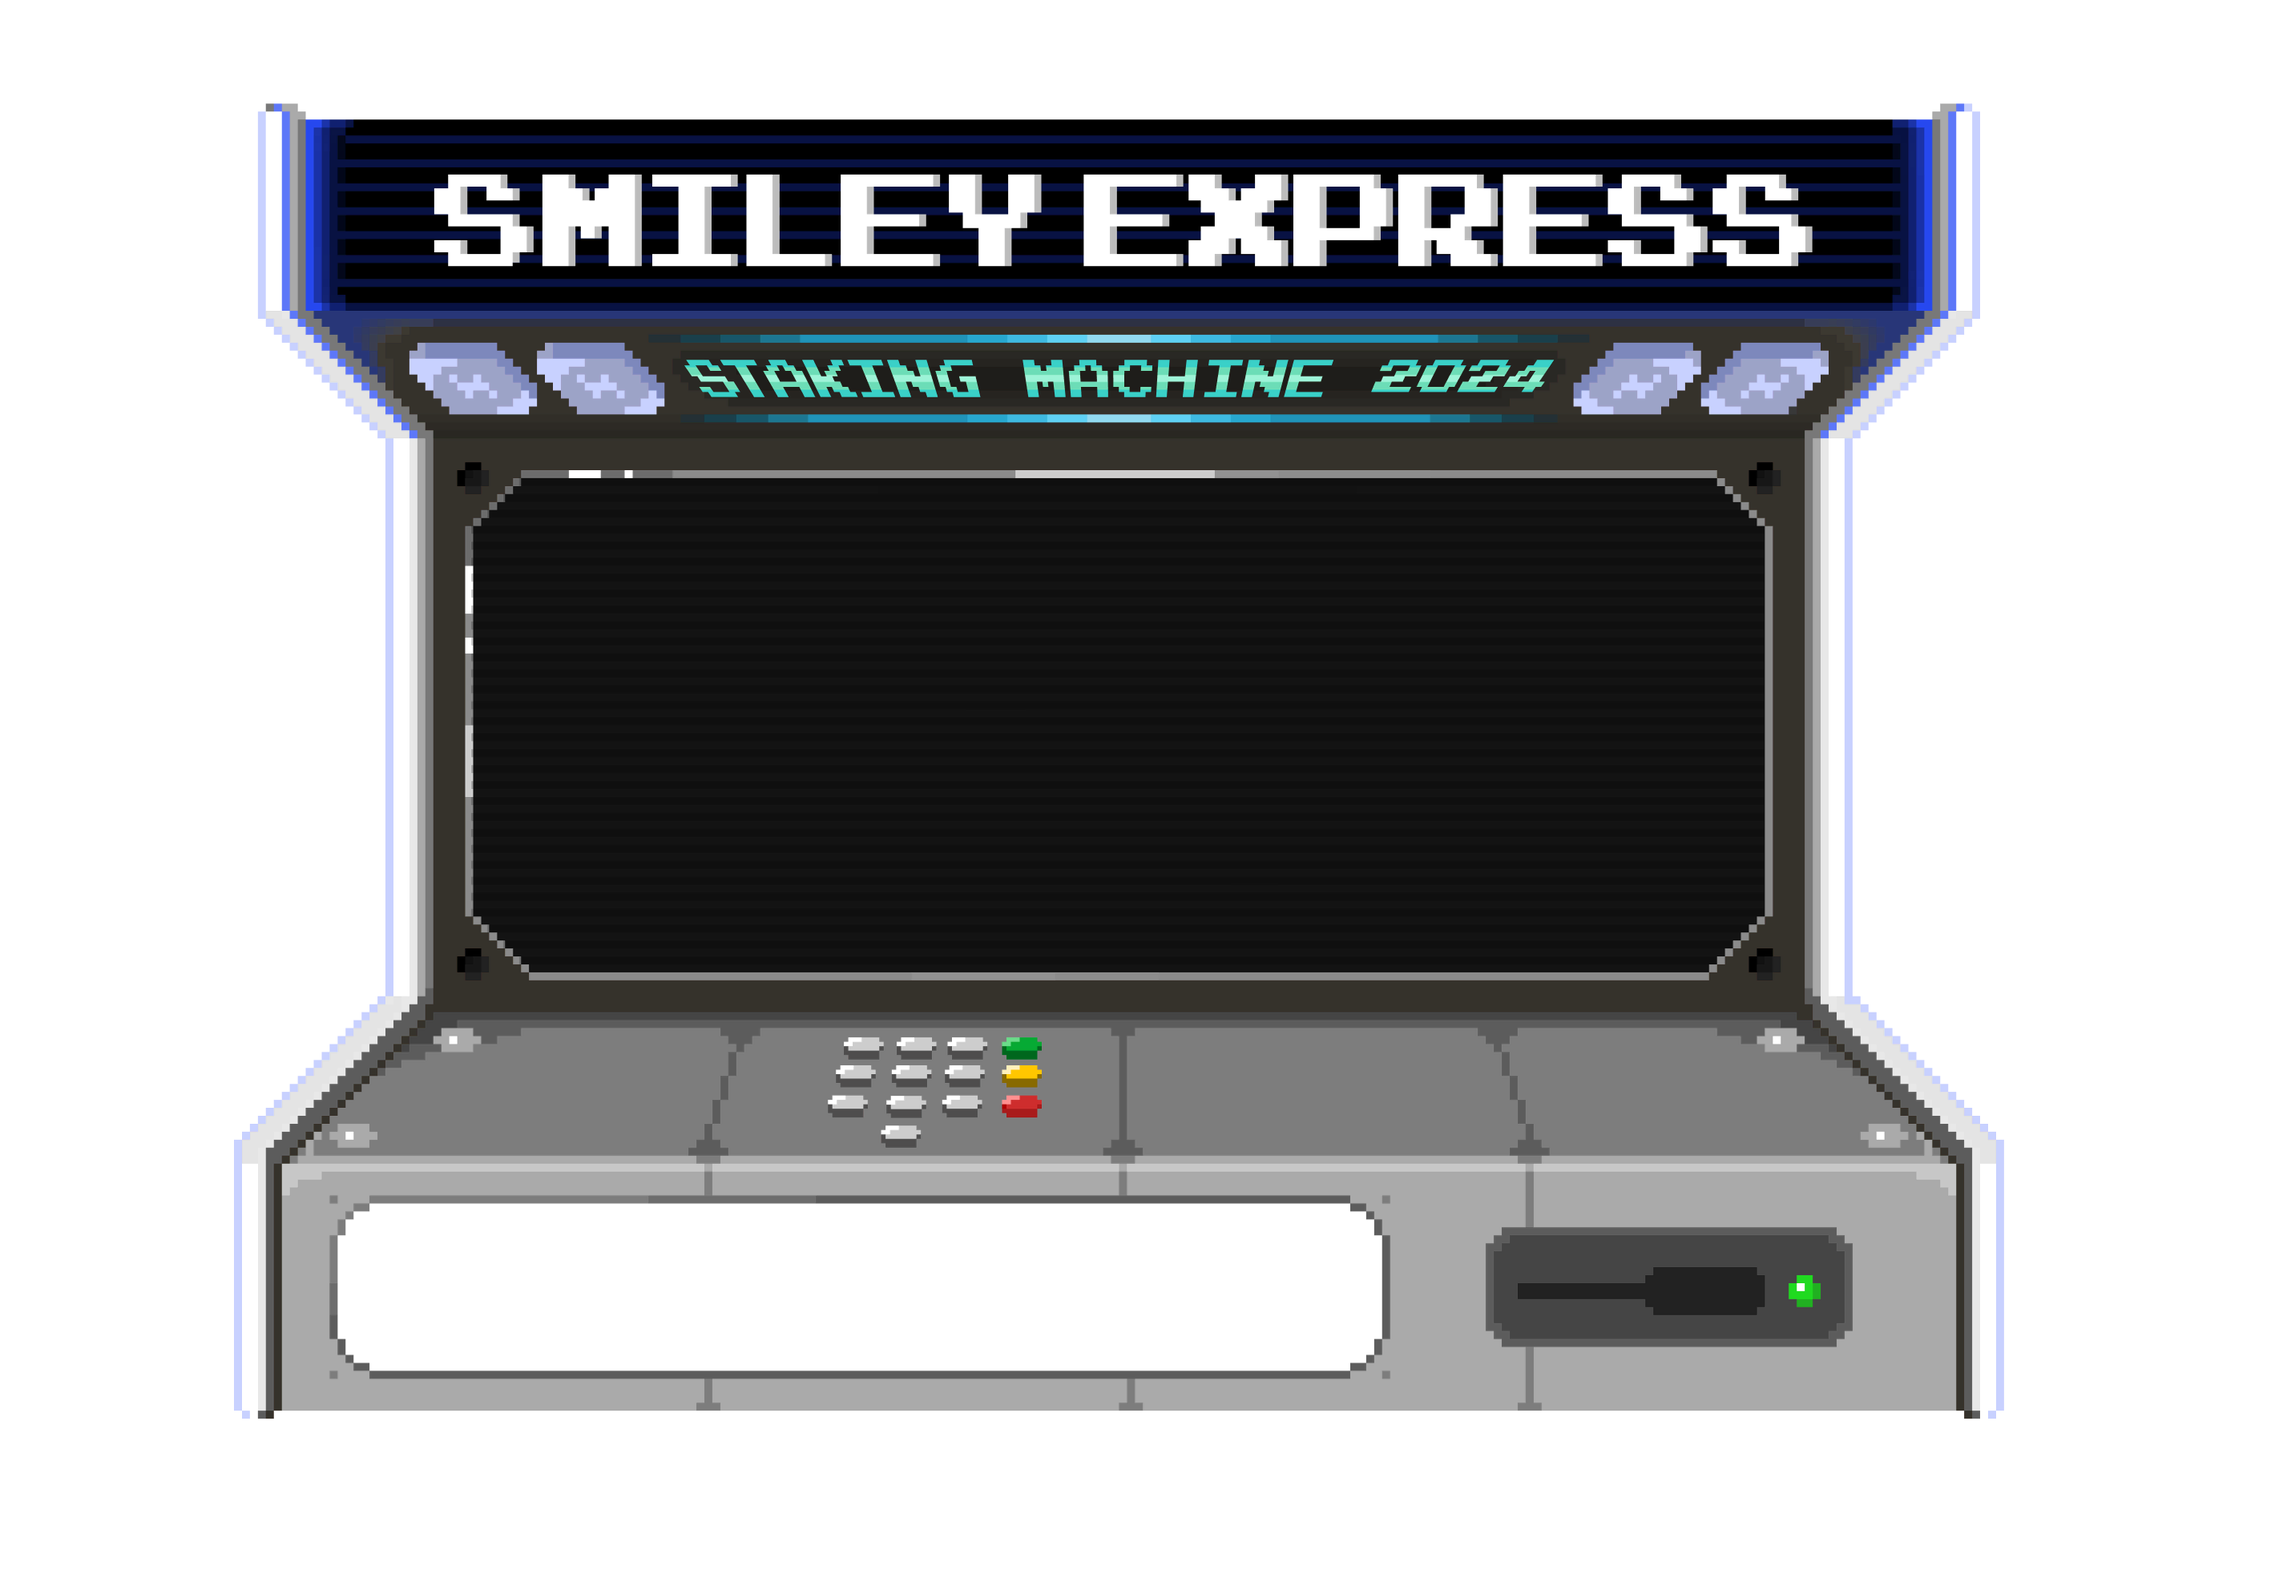
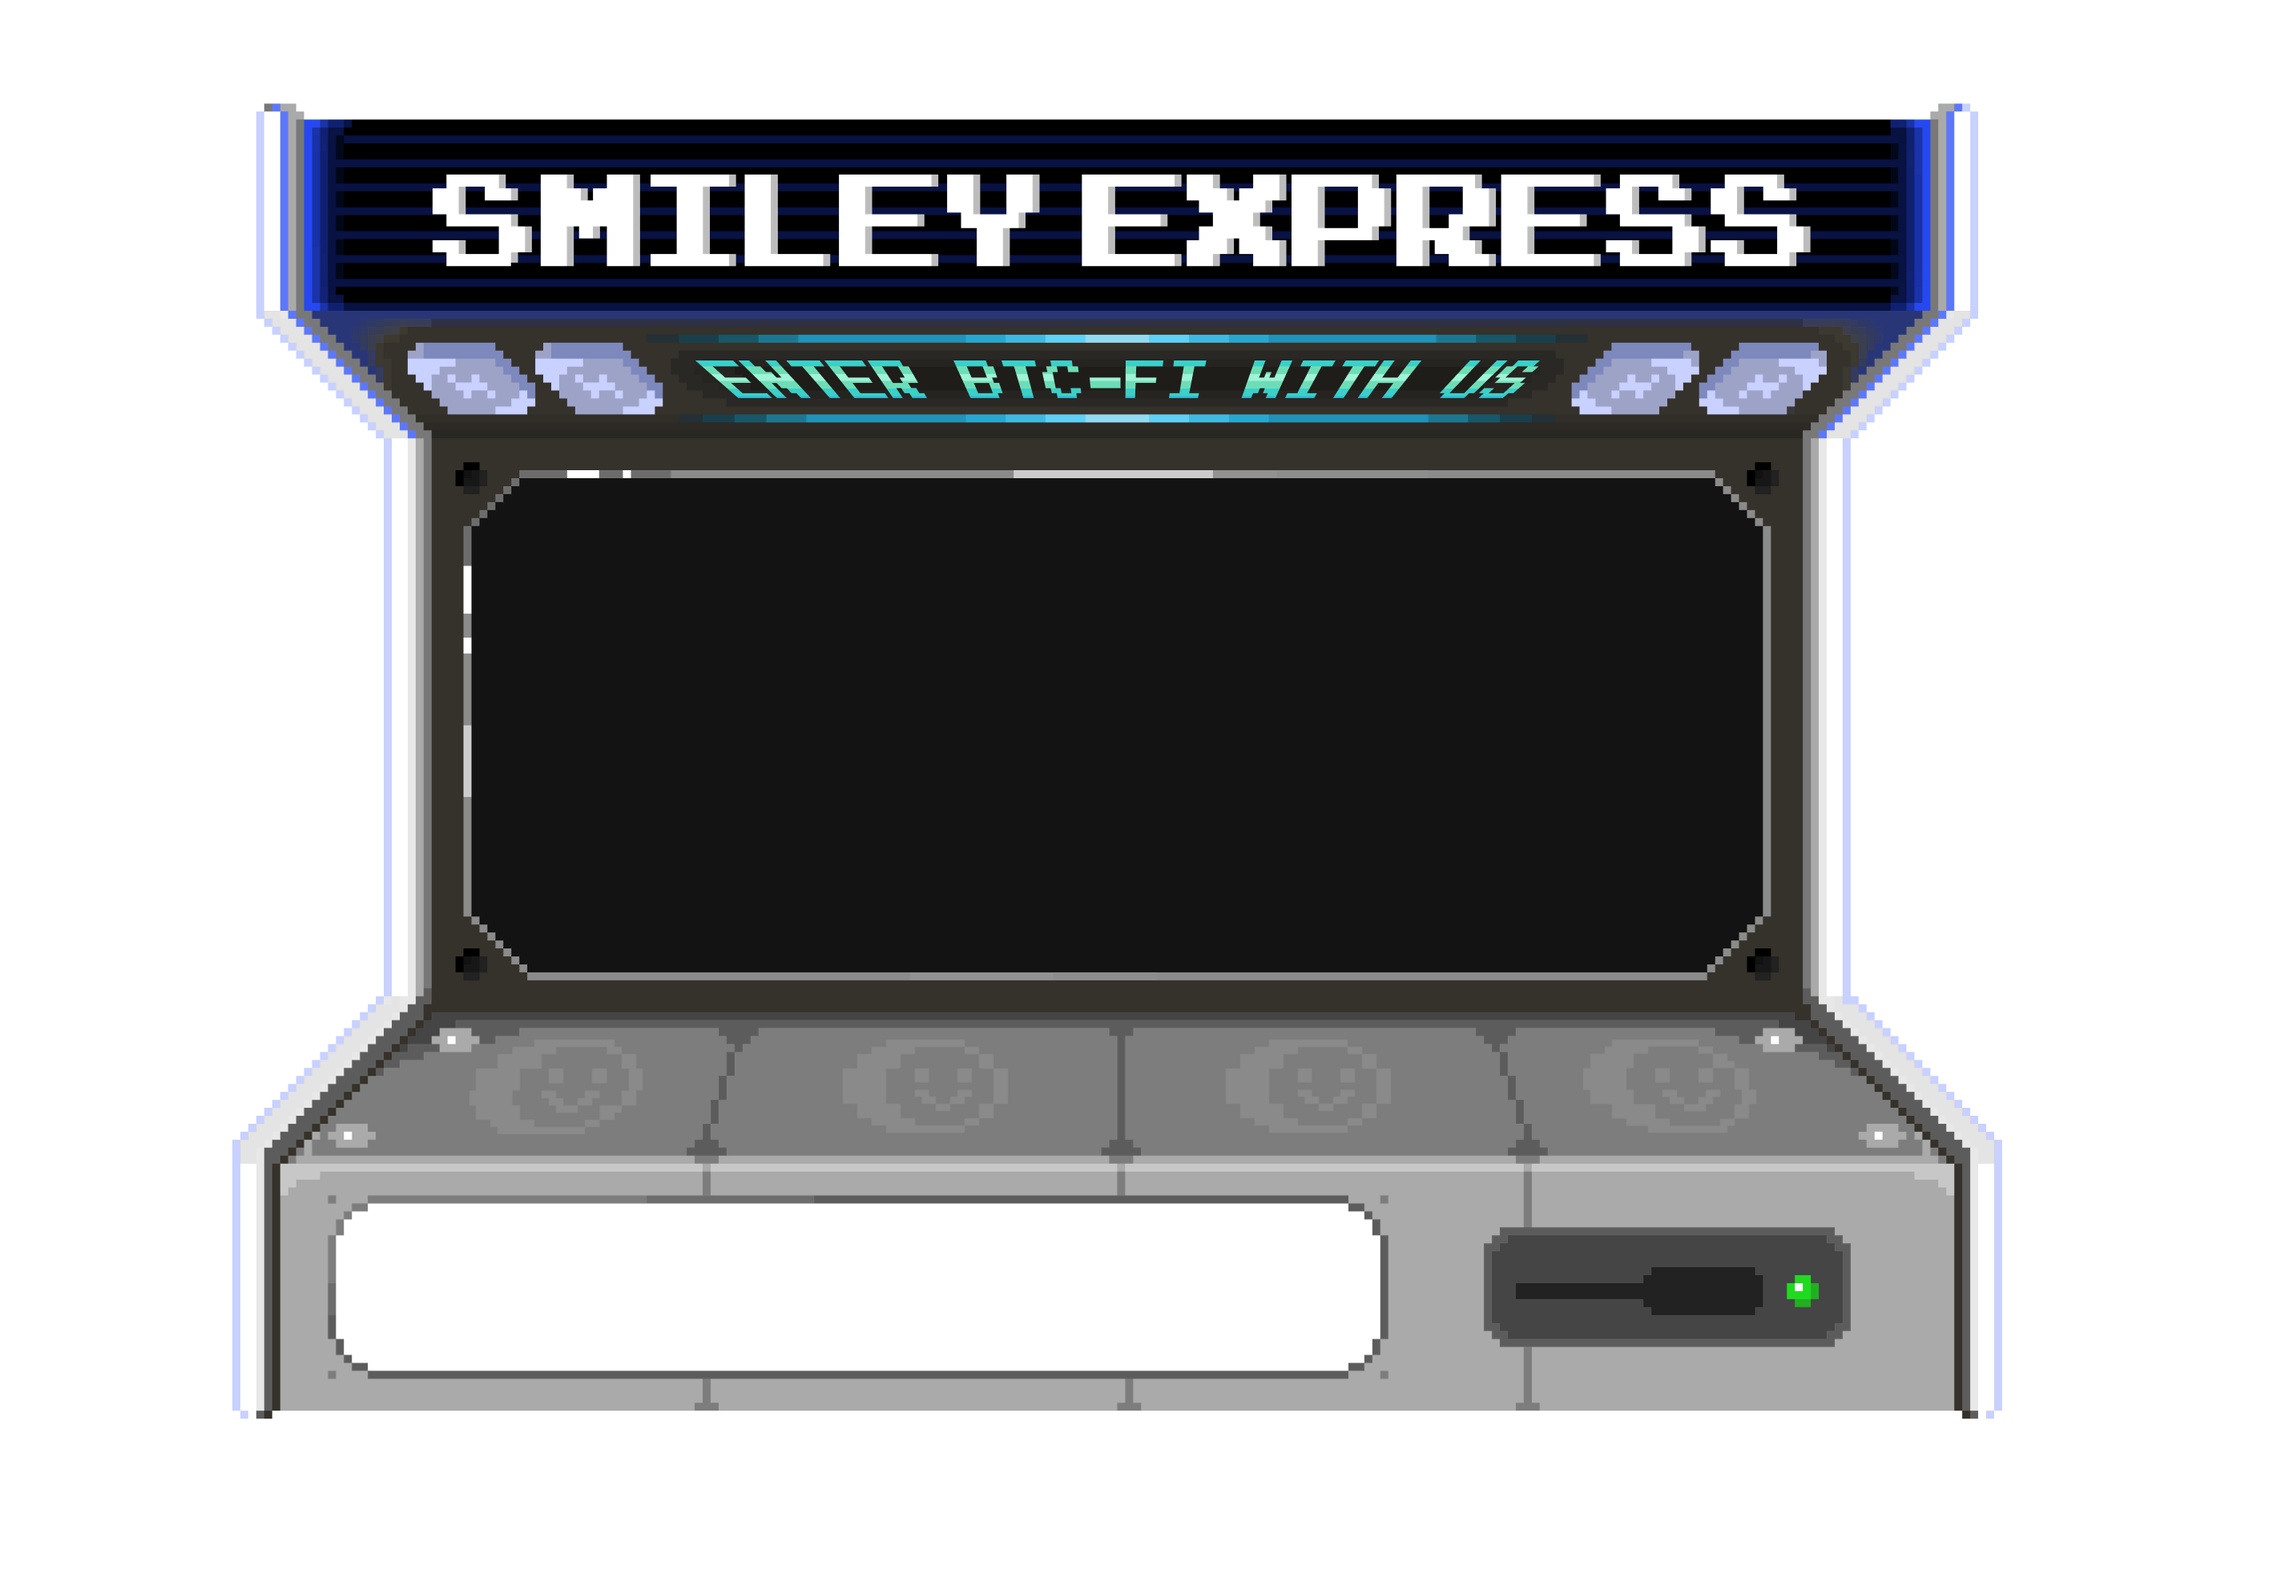
update mobile

diff --git a/src/components/StakingMachine/SmileyExpress.tsx b/src/components/StakingMachine/SmileyExpress.tsx
@@ -1,14 +1,90 @@
-import { SmileyIcon } from '@/assets/icons'
 import { Image } from '@/components/Image'
+import { useMediaQuery } from '@/hooks/useMediaQuery'
+import { Divider } from '@/pages/Main/StakingPage'
+import { cn } from '@/utils/cn'
 import { getIllustrationUrl } from '@/utils/getAssetsUrl'
 
 import { BuyButton } from './BuyButton'
 
+const BuySmile: React.FC = () => {
+  const { isMobile } = useMediaQuery()
+  return (
+    <div
+      className={cn(
+        isMobile
+          ? 'flex flex-wrap gap-2 w-full items-center justify-center'
+          : 'flex gap-1'
+      )}>
+      <BuyButton>
+        <Image
+          src={getIllustrationUrl('bybit-icon', 'webp')}
+          className="h-[31px] w-[83px]"
+        />
+      </BuyButton>
+      <BuyButton>
+        <Image
+          src={getIllustrationUrl('gate-io-icon', 'webp')}
+          className="h-[26px] w-[93px]"
+        />
+      </BuyButton>
+      <BuyButton>
+        <Image
+          src={getIllustrationUrl('mexc-icon', 'webp')}
+          className="h-[17px] w-[91px]"
+        />
+      </BuyButton>
+      <BuyButton>
+        <Image
+          src={getIllustrationUrl('bitget-icon', 'webp')}
+          className="h-[26px] w-[85px]"
+        />
+      </BuyButton>
+      <BuyButton>
+        <Image
+          src={getIllustrationUrl('kucoin-icon', 'webp')}
+          className="h-[31px] w-[112px]"
+        />
+      </BuyButton>
+    </div>
+  )
+}
+
 export const SmileyExpress: React.FC = () => {
+  const { isMobile } = useMediaQuery()
+  if (isMobile)
+    return (
+      <div className="relative flex flex-col items-center gap-y-3 pt-8 font-psm">
+        <div className="flex items-center gap-3">
+          <Image
+            src={getIllustrationUrl('red-lines', 'webp')}
+            className="h-[9px] w-[55px]"
+          />
+          <div className="text-xs text-[#FF64AE]">
+            THE No.1 Stablecoin PROTOCOL in BTC
+          </div>
+          <Image
+            src={getIllustrationUrl('red-lines', 'webp')}
+            className="h-[9px] w-[55px]"
+          />
+        </div>
+        <div className="flex items-center gap-4">
+          <Image
+            src={getIllustrationUrl('white-smile-icon', 'webp')}
+            className="h-[56px] w-[52px]"
+          />
+          <div className="font-smb2 text-[40px] leading-none text-white [text-shadow:_6px_0px_0px_#5B5B5B]">
+            $SMILE
+          </div>
+        </div>
+        <Divider title="buy smile from" className="relative my-0"></Divider>
+        {/* <div>buy smile from</div> */}
+        <BuySmile></BuySmile>
+      </div>
+    )
   return (
     <div className="absolute left-[300px] top-[300px] z-10">
-      <div className="relative flex w-[800px] flex-col items-center gap-y-2 pt-8 font-psm">
-        <div className="flex items-center gap-3 ">
+      <div className="relative flex w-[800px] flex-col items-center gap-y-3 pt-8 font-psm">
+        <div className="flex items-center gap-3">
           <Image
             src={getIllustrationUrl('red-lines', 'webp')}
             className="h-[20px] w-[130px]"
@@ -22,8 +98,11 @@ export const SmileyExpress: React.FC = () => {
           />
         </div>
         <div className="flex items-center gap-3">
-          <SmileyIcon className="h-[93px] w-[86px] text-white" />
-          <div className="font-smb2 text-[80px] text-white [text-shadow:_6px_0px_0px_#5B5B5B]">
+          <Image
+            src={getIllustrationUrl('white-smile-icon', 'webp')}
+            className="h-[93px] w-[86px]"
+          />
+          <div className="font-smb2 text-[80px] leading-[110px] text-white [text-shadow:_6px_0px_0px_#5B5B5B]">
             $SMILE
           </div>
         </div>
@@ -38,38 +117,7 @@ export const SmileyExpress: React.FC = () => {
             className="h-[1px] w-[306px]"
           />
         </div>
-        <div className="flex gap-1">
-          <BuyButton>
-            <Image
-              src={getIllustrationUrl('bybit-icon', 'webp')}
-              className="h-[31px] w-[83px]"
-            />
-          </BuyButton>
-          <BuyButton>
-            <Image
-              src={getIllustrationUrl('gate-io-icon', 'webp')}
-              className="h-[26px] w-[93px]"
-            />
-          </BuyButton>
-          <BuyButton>
-            <Image
-              src={getIllustrationUrl('mexc-icon', 'webp')}
-              className="h-[17px] w-[91px]"
-            />
-          </BuyButton>
-          <BuyButton>
-            <Image
-              src={getIllustrationUrl('bitget-icon', 'webp')}
-              className="h-[26px] w-[85px]"
-            />
-          </BuyButton>
-          <BuyButton>
-            <Image
-              src={getIllustrationUrl('kucoin-icon', 'webp')}
-              className="h-[31px] w-[112px]"
-            />
-          </BuyButton>
-        </div>
+        <BuySmile></BuySmile>
       </div>
     </div>
   )

diff --git a/src/components/StakingMachine/index.tsx b/src/components/StakingMachine/index.tsx
@@ -22,38 +22,34 @@ export const StakingMachine: React.FC<{ hideScrollDown: boolean }> = ({
     return 0.89
   }, [width])
 
+  const isMobile = useMemo(() => width <= 639, [width])
+
   return (
     <div
-      className="relative z-10 flex h-[995px] w-[1423px] shrink-0 items-center justify-center sm:mt-[-150px]"
+      className={cn(
+        !isMobile && 'w-[1423px]',
+        'relative z-10 flex h-[995px] shrink-0 items-center justify-center sm:mt-[-150px]'
+      )}
       style={{
-        transform: `scale(${responsiveScaling})`
+        transform: isMobile ? '' : `scale(${responsiveScaling})`
       }}>
       <SmileyExpress></SmileyExpress>
-      <StaticMachine />
+      {!isMobile && <StaticMachine />}
       <Lights />
-      <MarqueeText />
-      <NumberPad />
+      {!isMobile && <MarqueeText />}
       <ArrowDown hideScrollDown={hideScrollDown} />
     </div>
   )
 }
 
 const MarqueeText: React.FC = () => {
-  const label = 'NFT STAKING IS HERE'
+  const label = 'FUELS THE FUTURE OF BTC-FI'
 
   return (
     <div className="absolute bottom-[132px] left-[205px] z-[-1] h-fit w-[660px] bg-black">
       <Marquee speed={75} className="font-sdm text-[80px] text-yellow2">
         <span className="mr-6">{label}</span>
       </Marquee>
-    </div>
-  )
-}
-
-const NumberPad: React.FC = () => {
-  return (
-    <div className="absolute left-[515px] top-[648px] z-[100] h-[69px] w-[133px]">
-      <Image src={getIllustrationUrl('numberpad-default')} />
     </div>
   )
 }
@@ -70,6 +66,7 @@ const StaticMachine: React.FC = () => {
 const ArrowDown: React.FC<{ hideScrollDown: boolean }> = ({
   hideScrollDown
 }) => {
+  console.log(hideScrollDown)
   return (
     <a
       href="#whoIsBitSmiley"

diff --git a/src/components/StakingMachine/BuyButton.tsx b/src/components/StakingMachine/BuyButton.tsx
@@ -1,15 +1,18 @@
+import { useMediaQuery } from '@/hooks/useMediaQuery'
 import { cn } from '@/utils/cn'
 import { getIllustrationUrl } from '@/utils/getAssetsUrl'
 
 export const BuyButton: React.FC<
   React.ButtonHTMLAttributes<HTMLButtonElement>
 > = ({ className, disabled, ...rest }) => {
+  const { isMobile } = useMediaQuery()
   return (
     <button
       disabled={disabled}
       type="button"
       className={cn(
-        'w-[144px] h-[47px] group relative cursor-pointer',
+        isMobile ? 'w-[158px] h-[51px]' : 'w-[144px] h-[47px]',
+        'group relative cursor-pointer',
         'disabled:cursor-not-allowed disabled:saturate-50',
         className
       )}

diff --git a/src/pages/Main/StakingPage.tsx b/src/pages/Main/StakingPage.tsx
@@ -331,7 +331,7 @@ const Articles: React.FC = () => {
   )
 }
 
-const Divider: React.FC<{
+export const Divider: React.FC<{
   titleRef?: RefObject<HTMLDivElement> | null
   title: string
   className?: string
